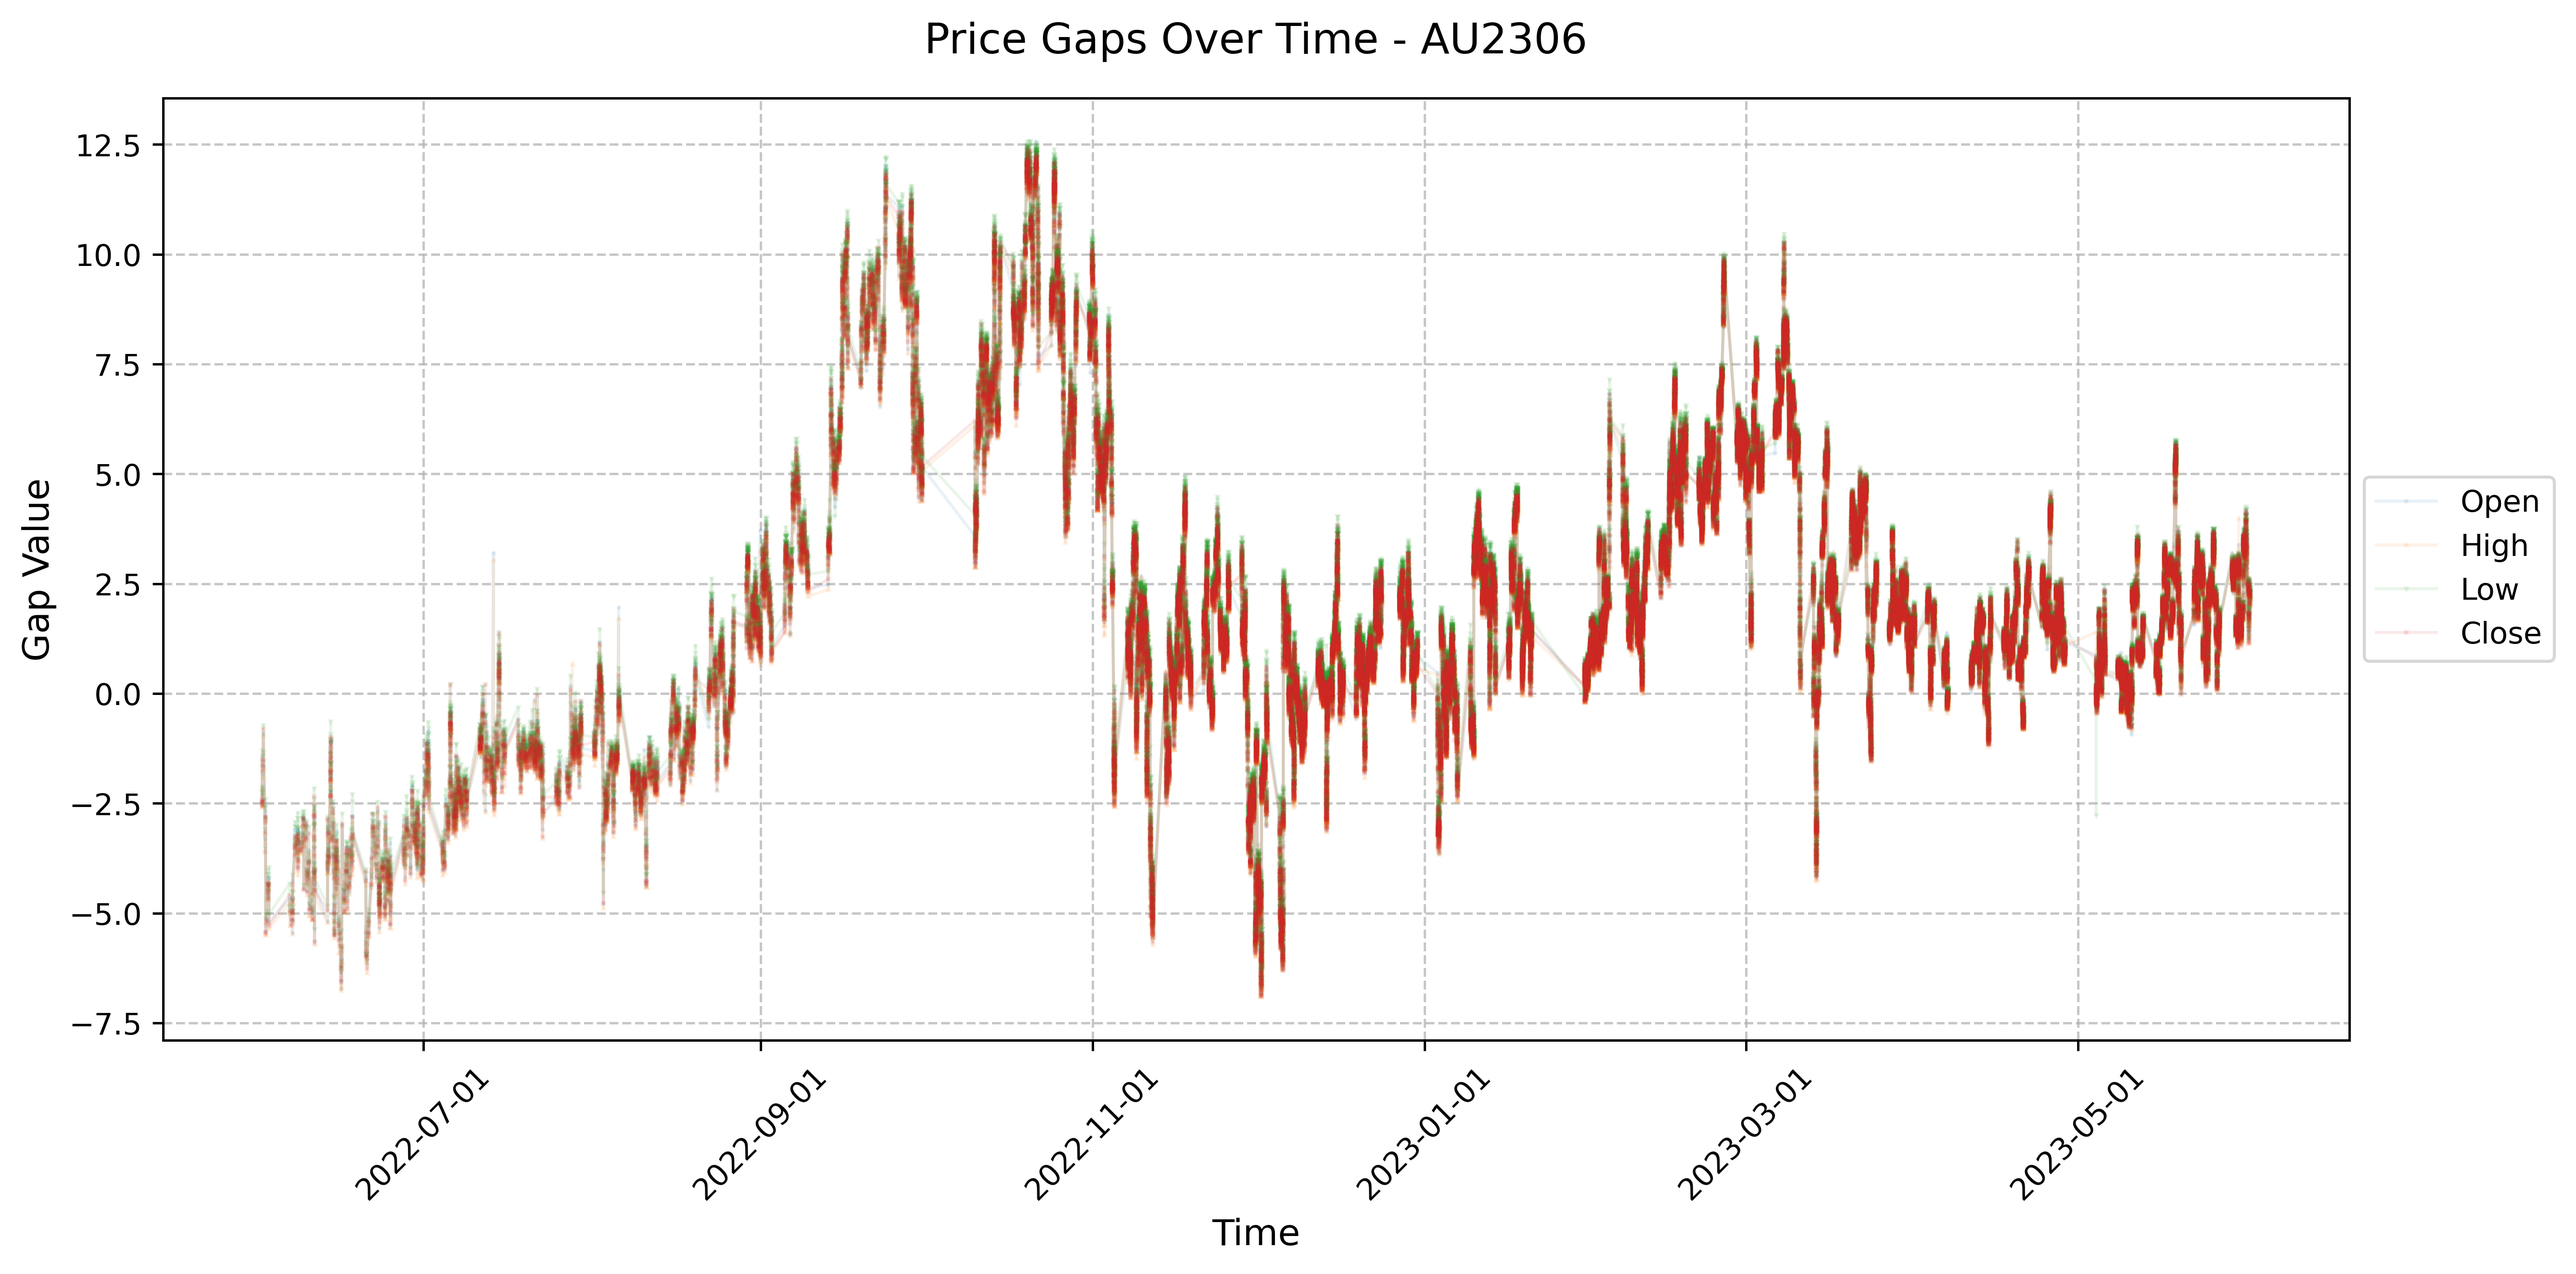
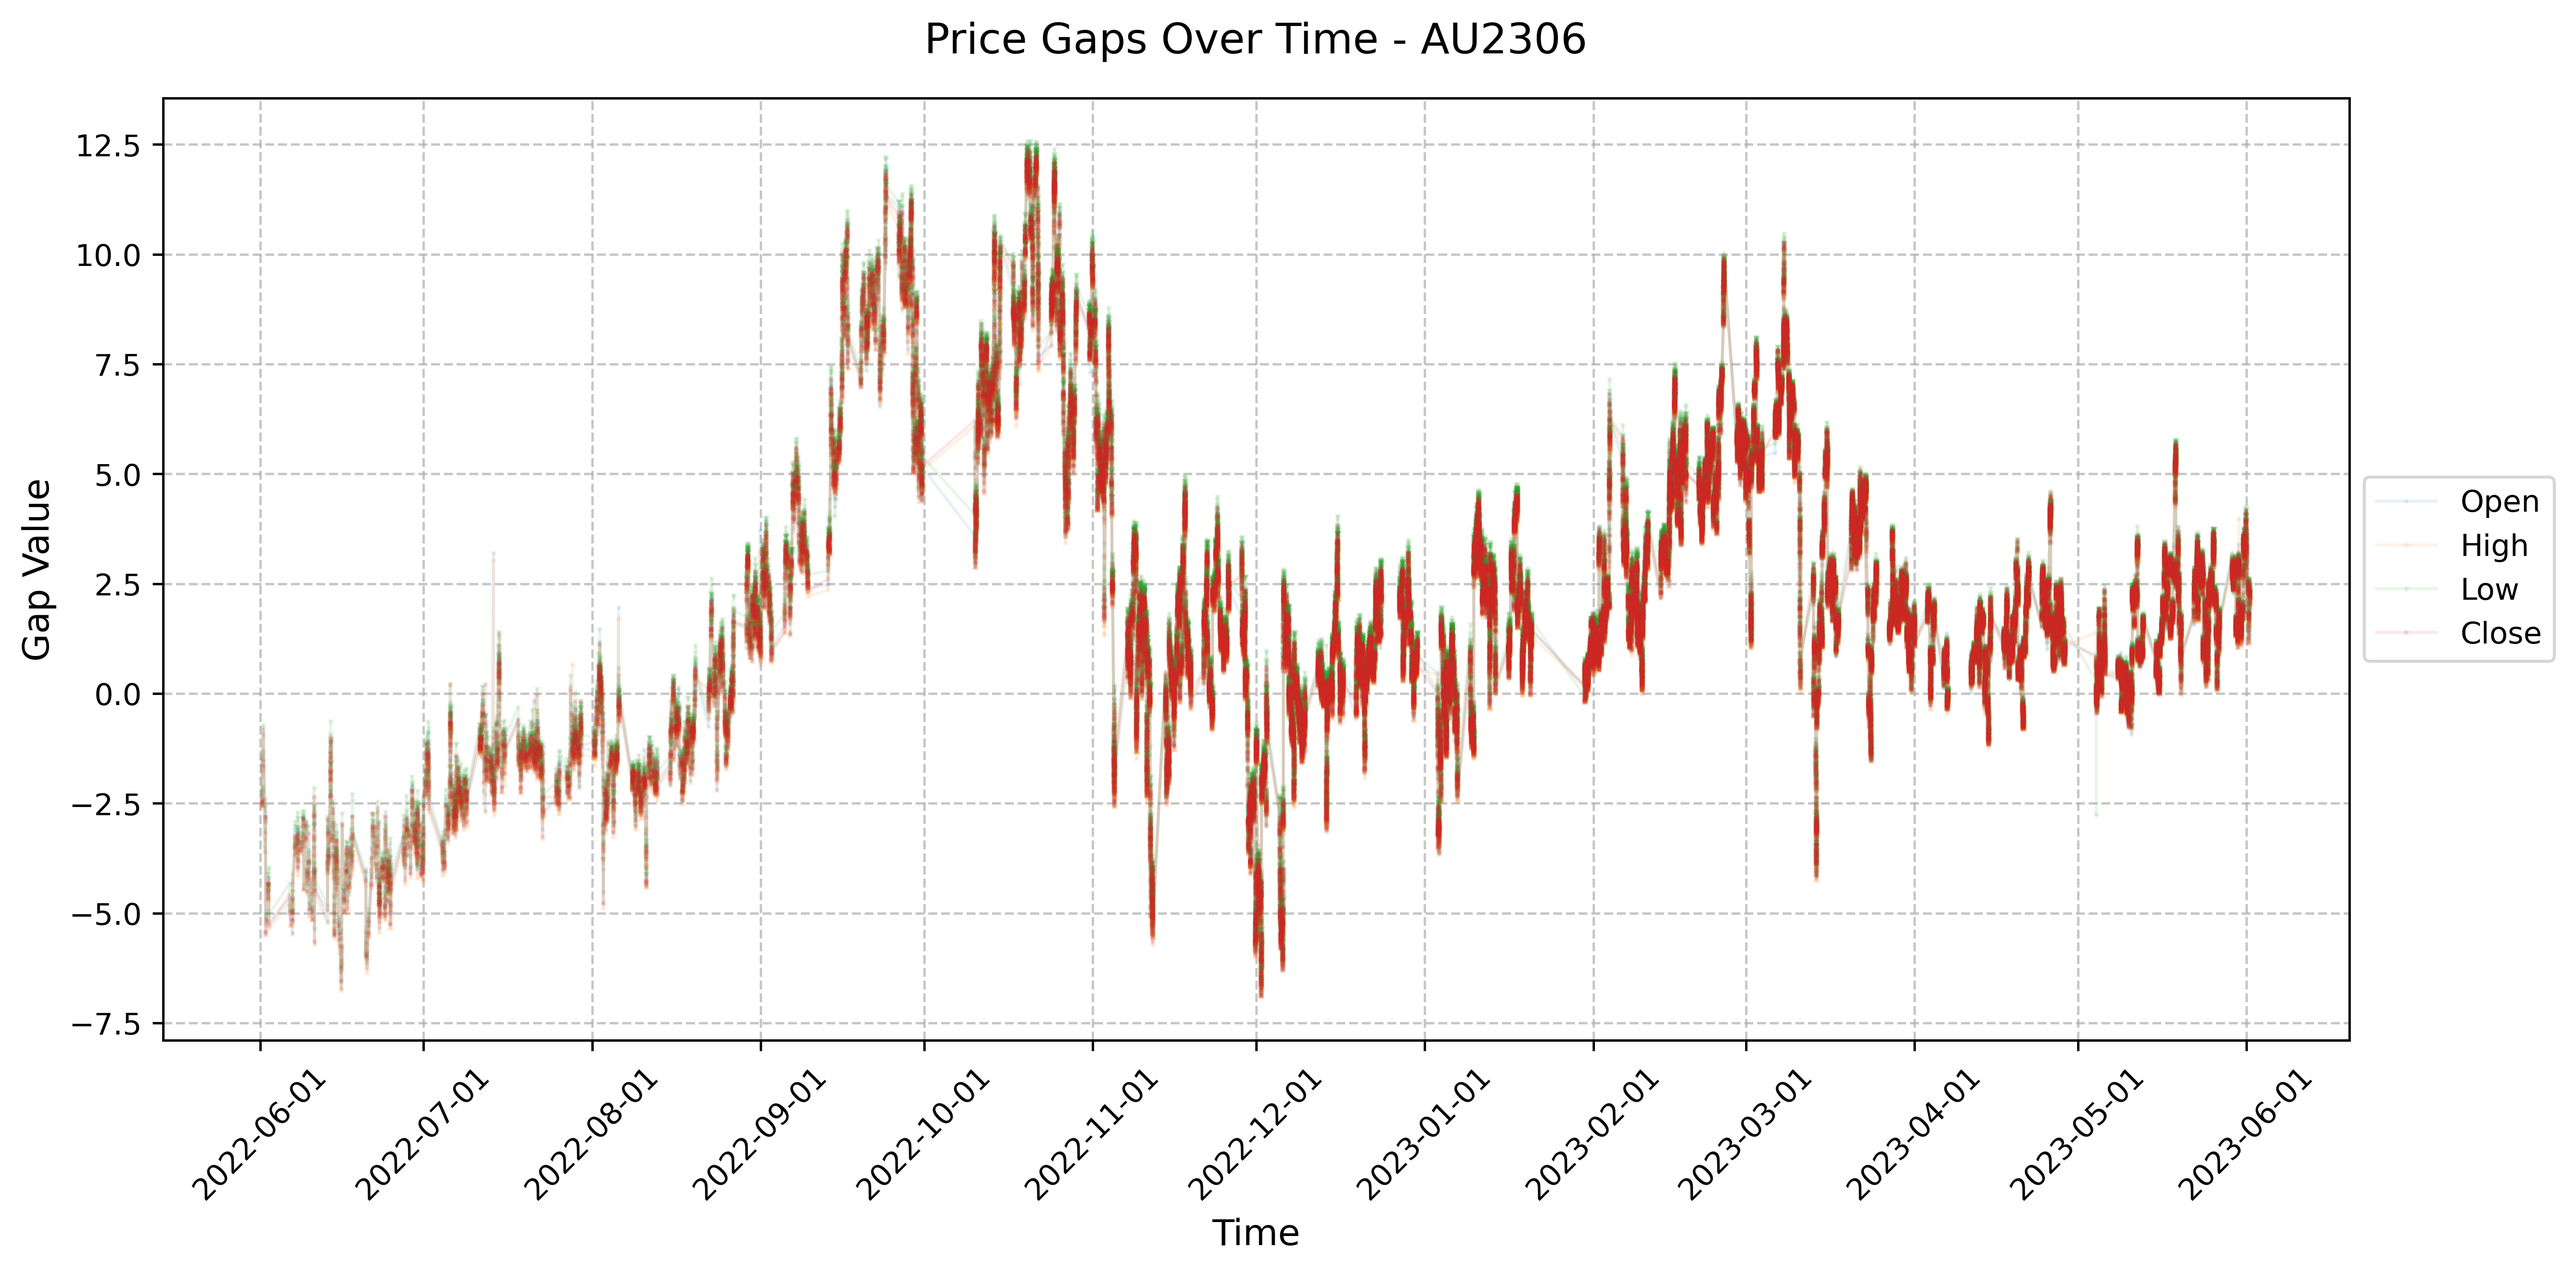
fix: plot x interval -> a month

diff --git a/plot.py b/plot.py
@@ -1,5 +1,6 @@
 import pandas as pd
 import matplotlib.pyplot as plt
+import matplotlib.dates as mdates
 from matplotlib.dates import DateFormatter
 import glob
 
@@ -25,6 +26,9 @@ def plot_gaps(file_path):
     plt.xlabel("Time", fontsize=12)
     plt.ylabel("Gap Value", fontsize=12)
 
+    # Adjust x-axis
+    plt.gca().xaxis.set_major_locator(mdates.MonthLocator(interval=1))
+    
     # Format x-axis
     plt.gca().xaxis.set_major_formatter(DateFormatter("%Y-%m-%d"))
     plt.xticks(rotation=45)
